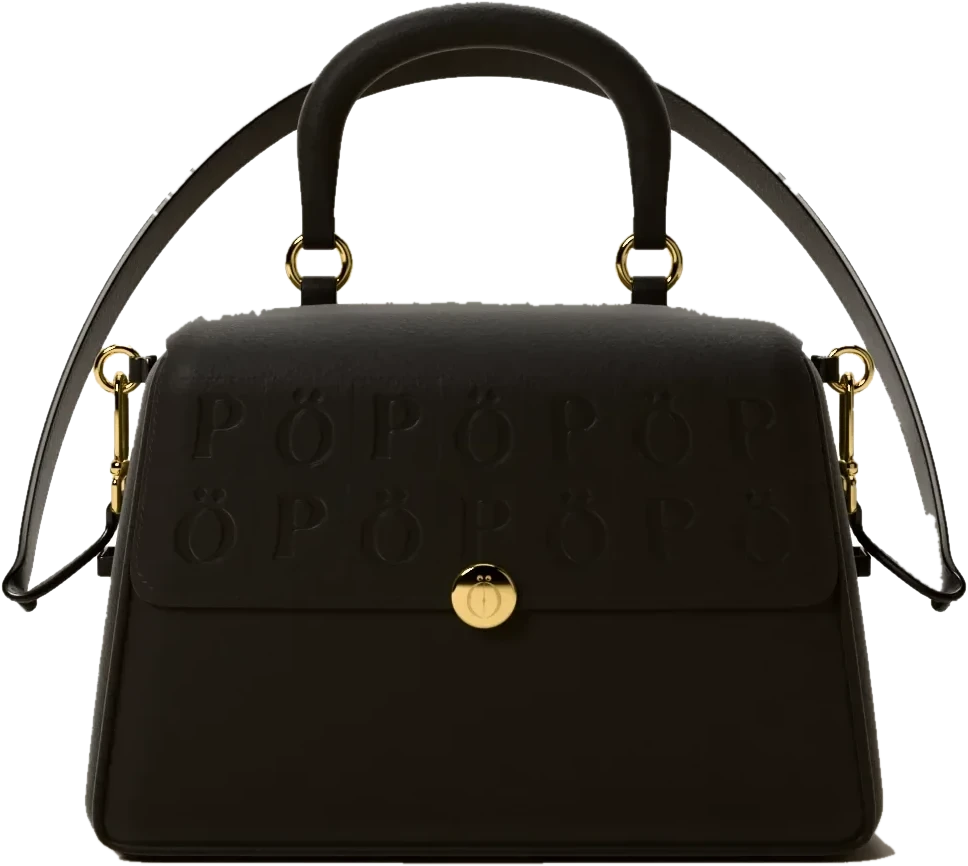
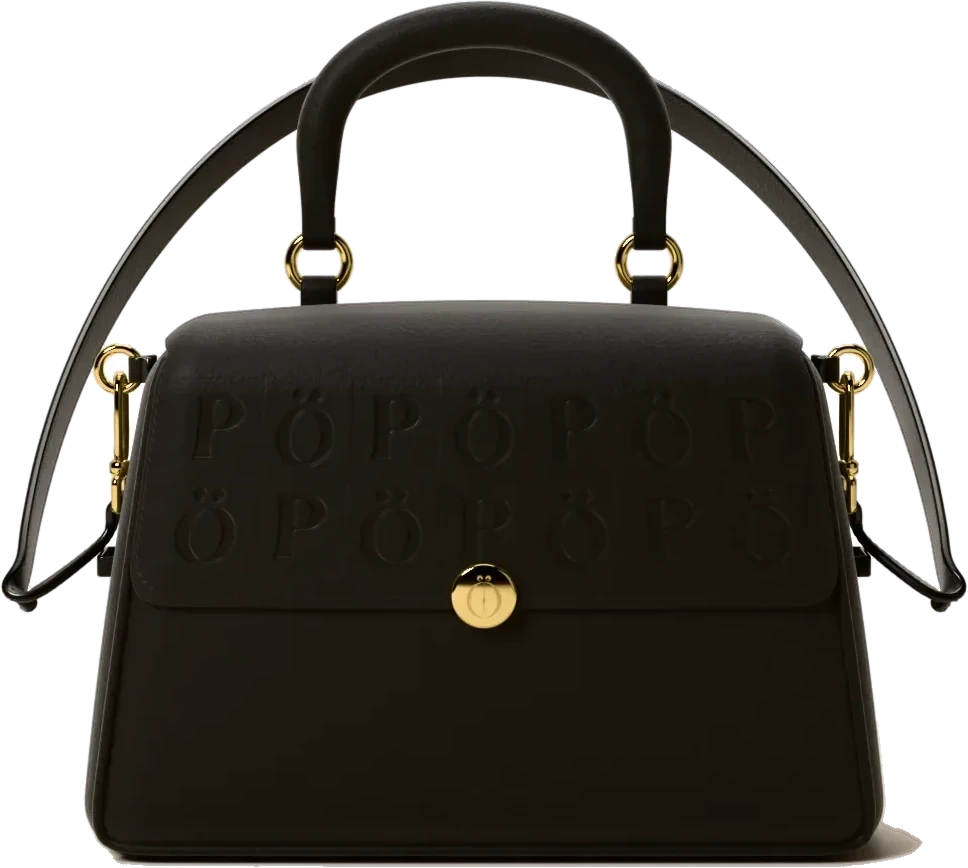
salon: the opening's Itaoca cut clean on the green (no white edges)
Claude-Session: https://claude.ai/code/session_0133zY8WgCqrCzcWELx32Zr7

diff --git a/salon/r0r7lx/assets/shop/shop.js b/salon/r0r7lx/assets/shop/shop.js
@@ -5,7 +5,7 @@
 //   ./?piece=<id>           the piece: the walkaround first where it has one and is priced at WALKAROUND_MIN_USD or
 //                           more, then its pictures stacked on the left, the details sticky on the right
 var WALKAROUND_MIN_USD = 0;   // David, 18 Nov: "Walkaround needs to be ADDED" - every piece that has one
-var V = '?v=1118j';   // a new picture set: phones and the CDN fetch it fresh   // David, 18 Nov: final
+var V = '?v=1118k';   // a new picture set: phones and the CDN fetch it fresh   // David, 18 Nov: final
 var WALKAROUND_ENABLED = false;   // David, 18 Nov: "Sharp yes" - every piece walks around on its own sharp views, never the 144p world walk   // David, 18 Nov: "Walkaround comes back, it's too strong and worked on to throw away"
 (function () {
   var app = document.getElementById('app'); if (!app) return;
@@ -52,7 +52,7 @@ var WALKAROUND_ENABLED = false;   // David, 18 Nov: "Sharp yes" - every piece wa
     var phone = matchMedia('(max-width: 820px)').matches;
     app.innerHTML = '<h1 class="vh">Chapter I</h1>' +
       (byId.itaoca ? '<section class="op2" aria-label="Itaoca">' +
-        '<a class="pic" href="' + HOME + '?piece=itaoca"><img src="assets/shop/img/itaoca_cut.webp" width="968" height="866" alt="Itaoca, the top-handle bag" fetchpriority="high"></a>' +
+        '<a class="pic" href="' + HOME + '?piece=itaoca"><img src="assets/shop/img/itaoca_cut.webp' + V + '" width="968" height="866" alt="Itaoca, the top-handle bag" fetchpriority="high"></a>' +
         '<div class="tx"><p class="k">Chapter I</p><h2>Itaoca</h2><p class="ty">Top-handle bag</p>' +
         '<p class="d">Black calfskin, the PÖ pressed into the flap, a rolled handle and the house disc in brass. Inside, cream suede.</p>' +
         '<p class="pr">' + E(byId.itaoca.price || '') + '</p>' +

diff --git a/salon/r0r7lx/index.html b/salon/r0r7lx/index.html
@@ -19,7 +19,7 @@
 <link rel="preconnect" href="https://fonts.googleapis.com"><link rel="preconnect" href="https://fonts.gstatic.com" crossorigin>
 <link href="https://fonts.googleapis.com/css2?family=Cormorant+Garamond:ital,wght@0,400;0,500;1,400&family=Jost:wght@300;400&display=swap" rel="stylesheet">
 <link rel="icon" type="image/png" href="assets/brand/mark-180.png"><link rel="apple-touch-icon" href="assets/brand/mark-180.png">
-<link rel="stylesheet" href="assets/shop/shop.css?v=1118j">
+<link rel="stylesheet" href="assets/shop/shop.css?v=1118k">
 <link rel="preload" as="image" href="assets/room/stage-desktop.webp" media="(min-width: 821px)"><link rel="preload" as="image" href="assets/room/stage-phone.webp" media="(max-width: 820px)">
 </head>
 <body>
@@ -28,7 +28,7 @@
 <header class="hd"><button class="burger" type="button" aria-label="Menu" aria-expanded="false">☰</button><a class="logo" href="./" aria-label="PHAÖRA"></a></header>
 <div class="wrap"><nav class="mn"></nav><main id="app"></main></div>
 <footer class="ft"></footer>
-<script src="assets/shop/chrome.js?v=1118j"></script>
+<script src="assets/shop/chrome.js?v=1118k"></script>
 <script src="assets/shop/walkaround.js"></script>
-<script src="assets/shop/shop.js?v=1118j"></script>
+<script src="assets/shop/shop.js?v=1118k"></script>
 </body></html>

diff --git a/salon/r0r7lx/service.html b/salon/r0r7lx/service.html
@@ -7,7 +7,7 @@
 <link rel="preconnect" href="https://fonts.googleapis.com"><link rel="preconnect" href="https://fonts.gstatic.com" crossorigin>
 <link href="https://fonts.googleapis.com/css2?family=Cormorant+Garamond:ital,wght@0,400;0,500;1,400&family=Jost:wght@300;400&display=swap" rel="stylesheet">
 <link rel="icon" type="image/png" href="assets/brand/mark-180.png"><link rel="apple-touch-icon" href="assets/brand/mark-180.png">
-<link rel="stylesheet" href="assets/shop/shop.css?v=1118j">
+<link rel="stylesheet" href="assets/shop/shop.css?v=1118k">
 </head>
 <body>
 <header class="hd"><button class="burger" type="button" aria-label="Menu" aria-expanded="false">☰</button><a class="logo" href="./" aria-label="PHAÖRA"></a></header>
@@ -76,5 +76,5 @@
 </section>
 </main></div>
 <footer class="ft"></footer>
-<script src="assets/shop/chrome.js?v=1118j"></script>
+<script src="assets/shop/chrome.js?v=1118k"></script>
 </body></html>
